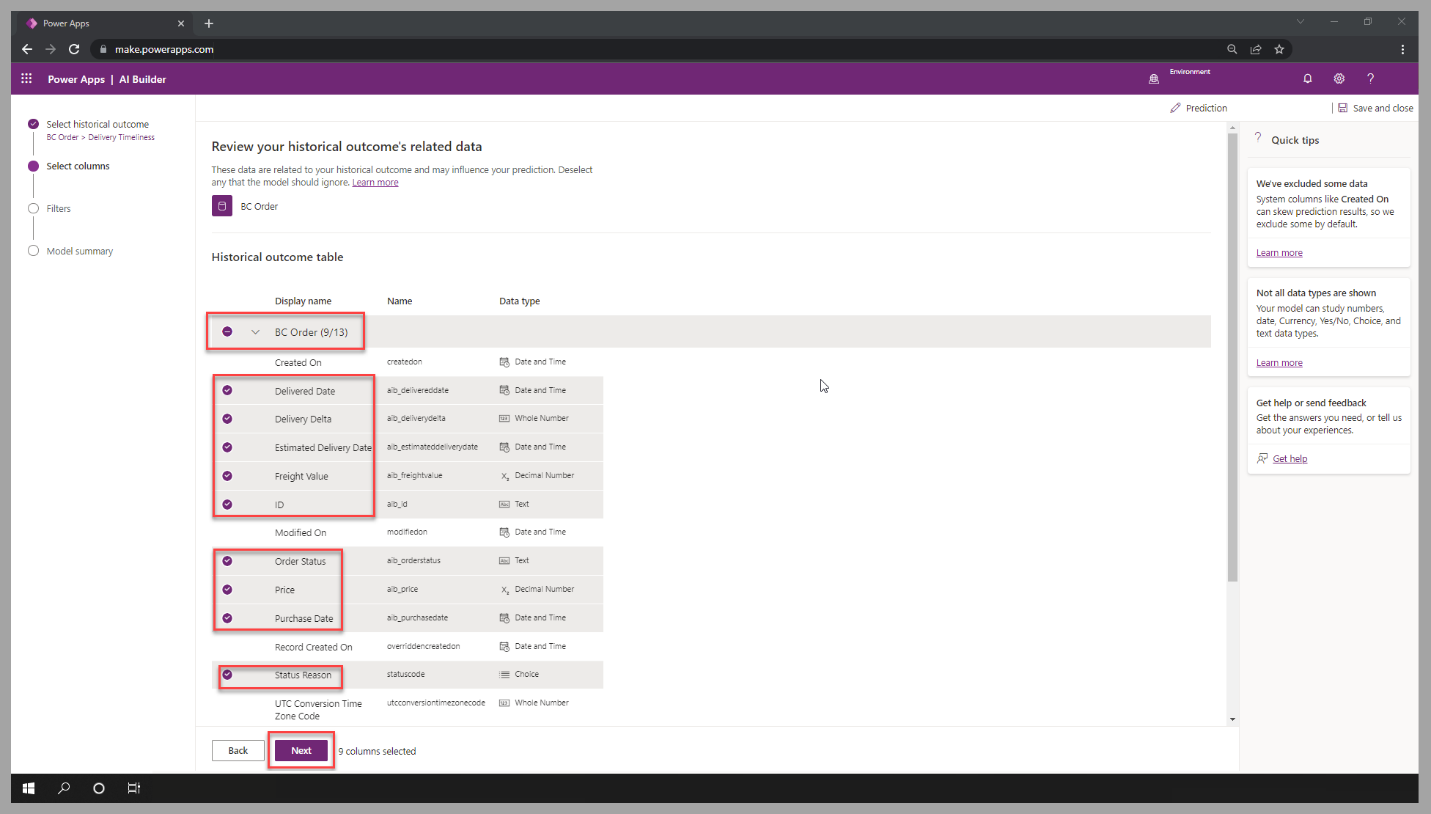
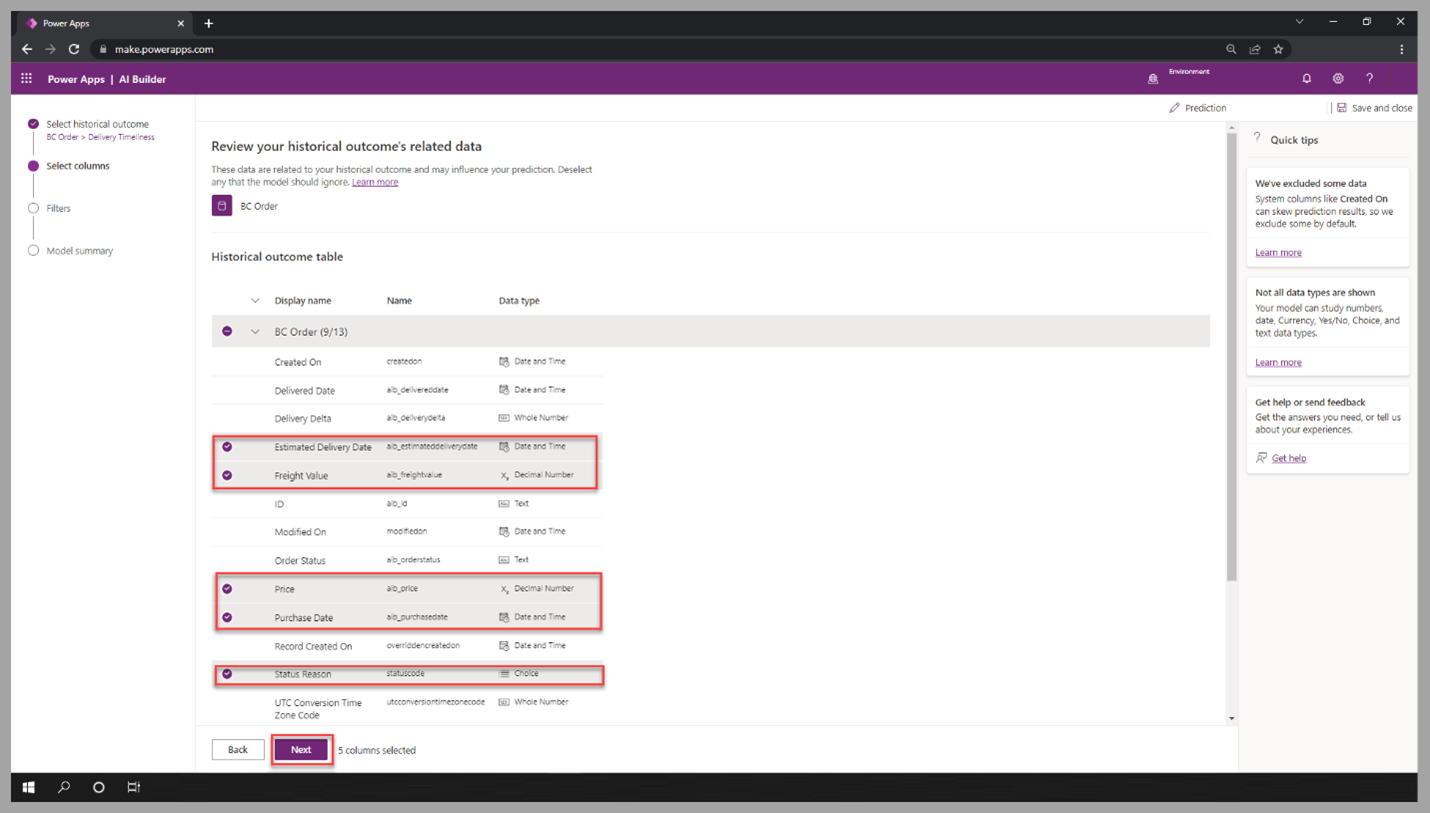
update exercise info

diff --git a/learn-bizapps-pr/powerapps/ai-builder-prediction/includes/exercise.md b/learn-bizapps-pr/powerapps/ai-builder-prediction/includes/exercise.md
@@ -21,7 +21,7 @@ In the following video, you're walked through those data preparation steps.
 
 > [!VIDEO https://www.microsoft.com/videoplayer/embed/]
 
-## Create a model 
+## Create a model
 
 The prediction model determines potential outcomes after analyzing historical data. Providing records that have multiple potential influencers and a clear outcome, will support a model with high confidence level.
 
@@ -32,7 +32,7 @@ The tables imported during the data preparation steps will be used to create the
 	> [!div class="mx-imgBorder"]
 	> [![Screenshot of the Power Apps Studio displaying the prediction model tile and AI Builder navigation menu.](../media/prediction-model-tile.png)](../media/prediction-model-tile.png#lightbox)
 
-1.  Select **Get started**.
+2.  Select **Get started**.
 
 	> [!div class="mx-imgBorder"]
 	> [![Screenshot of the AI Builder prediction model with highlight on Get Started.](../media/get-started.png)](../media/get-started.png#lightbox)
@@ -42,20 +42,48 @@ The tables imported during the data preparation steps will be used to create the
 	> [!div class="mx-imgBorder"]
 	> [![Screenshot of the AI Builder Prediction model with highlight on the table and column value selection and confirmation of the four possible outcomes.](../media/outcomes.png)](../media/outcomes.png#lightbox)
 
-1.  Review and confirm the selected columns that may influence the outcome for the **BC Order** table.
+1.  Review and confirm the selected columns that may influence the outcome for the **BC Order** table. Notice that Delivery Delta and Delivery Date are not selected. These values are updated once the delivery has occurred and would bias the analysis, resulting in a model performance of type D. Other irrelevant columns, such as ID and Order Status, can also be removed for this model training. To move to the next step of this exercise, select **Next**.
 
 	> [!div class="mx-imgBorder"]
 	> [![Screenshot of the AI Builder Prediction model with highlight on the selected table and column values.](../media/columns.png)](../media/columns.png#lightbox)
 
-1.  To allow the model to consider the customer information, select the **City**, **ID**, and **Zip code** columns for the **BC Customer** table.
+1. For this exercise, no filter is required; select **Skip this step**, and then select **Next**.
+
+    > [!div class="mx-imgBorder"]
+	> [![Screenshot of the AI Builder Prediction model with highlight on the skip and next button.](../media/skip.png)](../media/skip.png#lightbox)
+
+1.  Review the model summary. Select **Train** to move to the next portion of this exercise.
+
+    > [!div class="mx-imgBorder"]
+	> [![Screenshot of the AI Builder Prediction model with highlight on the train button.](../media/train-2.png)](../media/train-2.png#lightbox)
+
+1.	Select **Go to models**. The model will be in training for a few minutes. When training completes, the status will change to Trained.
+
+1.	To view the performance details, select the trained model.
+
+    > [!div class="mx-imgBorder"]
+	> [![Screenshot of the AI Builder Prediction model with highlight on the prediction.](../media/prediction.png)](../media/prediction.png#lightbox)
+
+1.  Review the performance details, in this **B** level is satisfactory. Most influential data provide information about the columns that have the highest impact on the determination of the outcome. Select **Publish** to move to the next step of this exercise.
+
+    > [!div class="mx-imgBorder"]
+	> [![Screenshot of the AI Builder Prediction model with highlight on the satisfactory level, data, and publish button.](../media/publish.png)](../media/publish.png#lightbox)
+
+## Use the model to predict in real-time
+
+When a prediction model is published, it will run automatically to refresh the outcome for newly created records, daily by default.
+In scenarios where the prediction is required instantly, a Power Automate cloud flow is required to generate the outcome as rows are created.
+Follow these steps to create a flow that will use the outcome of the custom model to predict the delivery timeliness potential for new orders:
+
+1. In the Power Automate Studio, in the left navigation menu, select **Create**, and then select the **Automated cloud flow** tile.
 
 	> [!div class="mx-imgBorder"]
-	> [![Screenshot of the Customer table with city, ID, and zip code selected.](../media/customer.png)](../media/customer.png#lightbox)
+	> [![Screenshot of the Power Automate Studio with the create and automated cloud flow button selected.](../media/automated.png)](../media/automated.png#lightbox)
 
-1.  To allow the model to consider the product information, select the **Category**, **Description Length**, **Height cm**, **ID**, **Length cm**, **Name Length**, **Photos Quantity**, **Weight g**, and **Width cm** columns for the **BC Product** table; then select **Next**.
+1.  Enter a name for the flow, then select the **When a row is added, modified or deleted** trigger for Dataverse. Then select **Create**.
 
 	> [!div class="mx-imgBorder"]
-	> [![Screenshot of the product table with the category, description length, height, ID, length, name length, photos quantity, weight, and width selected.](../media/product.png)](../media/product.png#lightbox)
+	> [![Screenshot of the Power Automate Studio with the flow name and choose your flow trigger field selected.](../media/flow-trigger.png)](../media/flow-trigger.png#lightbox)
 
 1.  For this exercise, no filter is required; select **Skip this step**, and then select **Next**.
 
